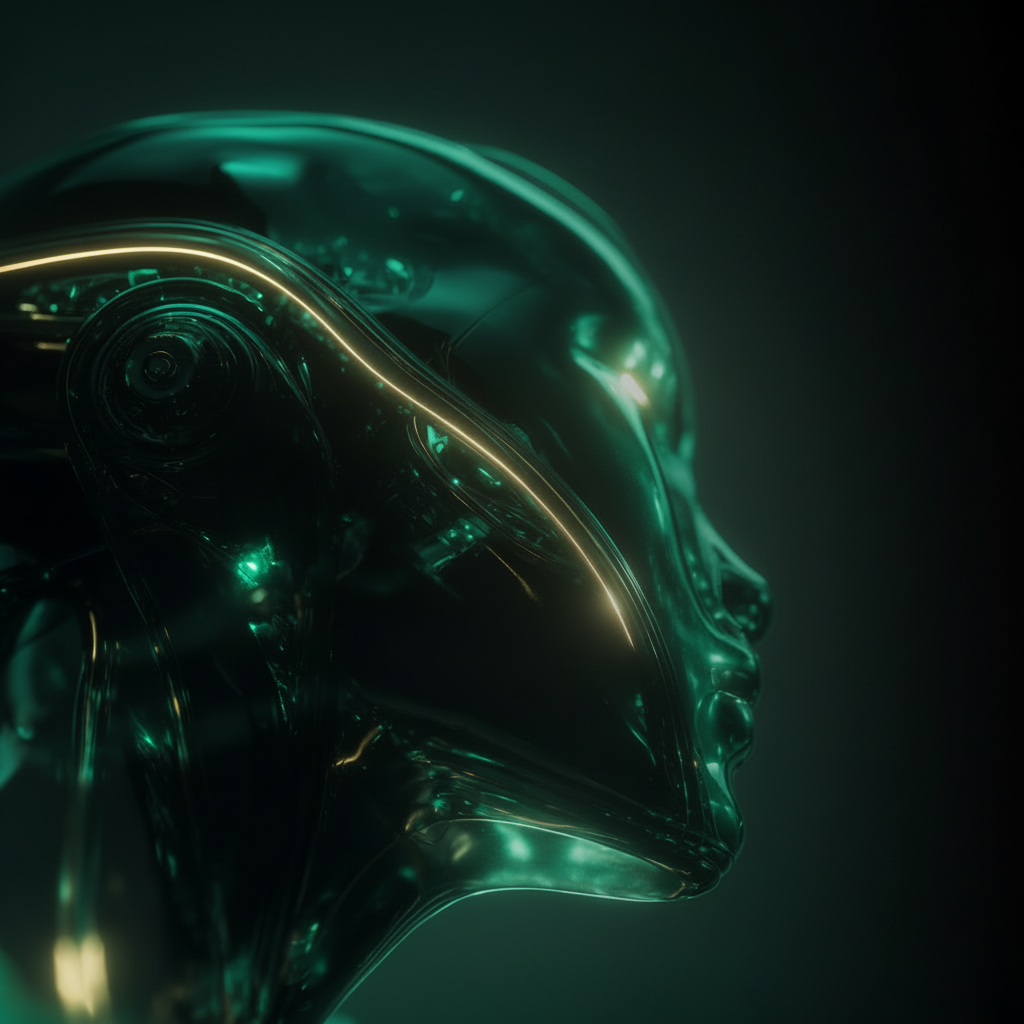
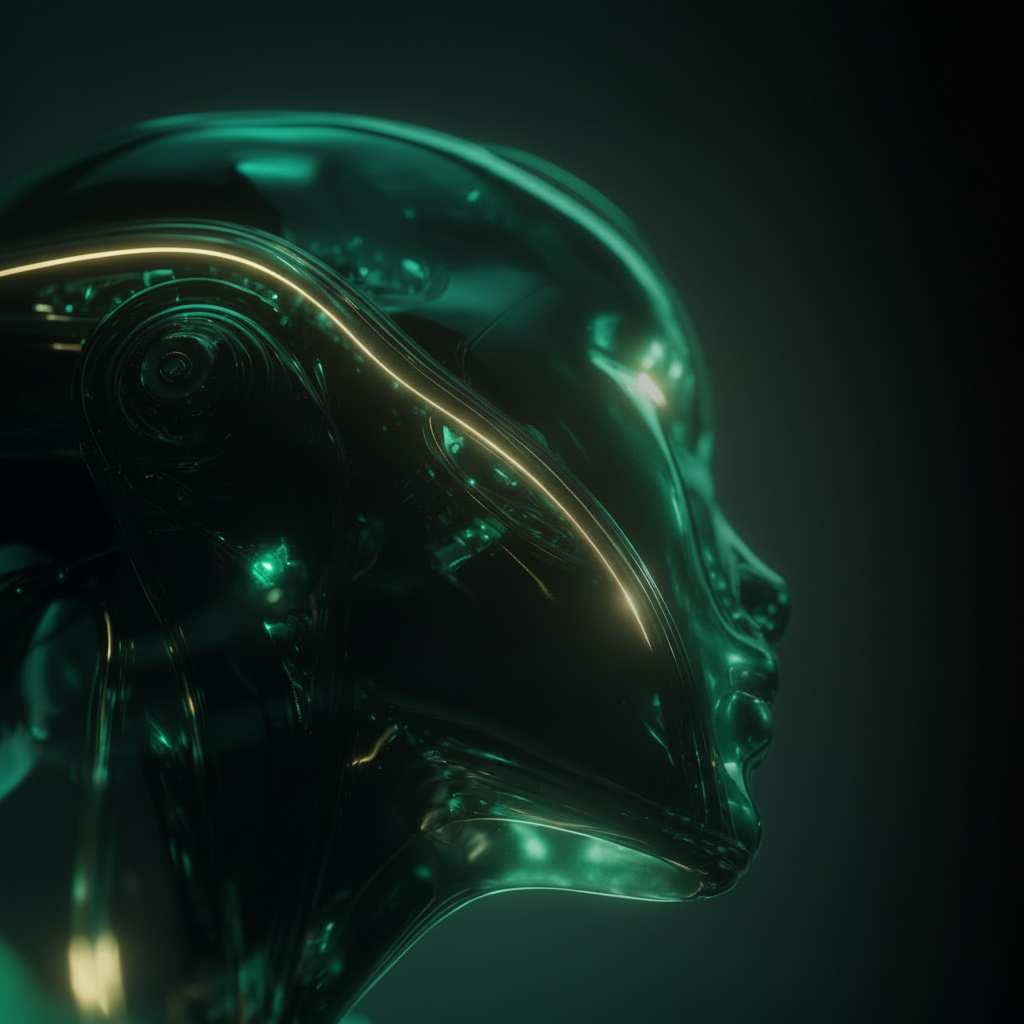
Changes

diff --git a/src/pages/StudiosPage.tsx b/src/pages/StudiosPage.tsx
@@ -79,8 +79,12 @@ export default function StudiosPage() {
             <img
               src={criadorHero}
               alt=""
-              className="h-full w-full object-cover object-center"
-              style={{ transform: 'scaleX(-1)' }}
+              className="absolute inset-0 h-full w-full"
+              style={{
+                transform: 'scaleX(-1) scale(1.8)',
+                objectFit: 'cover',
+                objectPosition: '45% 20%',
+              }}
             />
             {/* Gradient: fully invisible on left → fully visible on right */}
             <div
